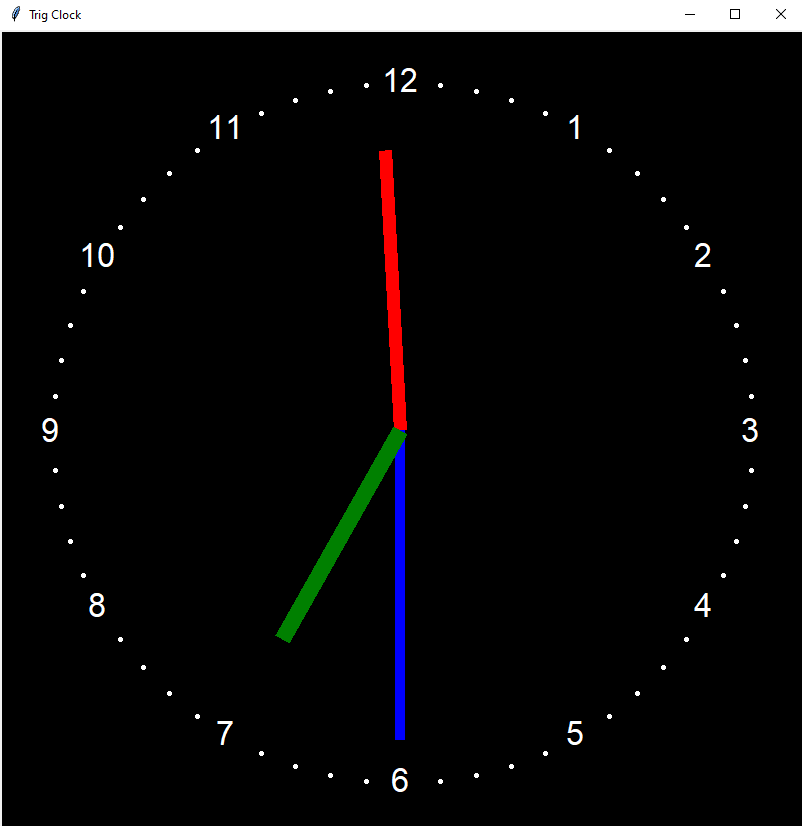
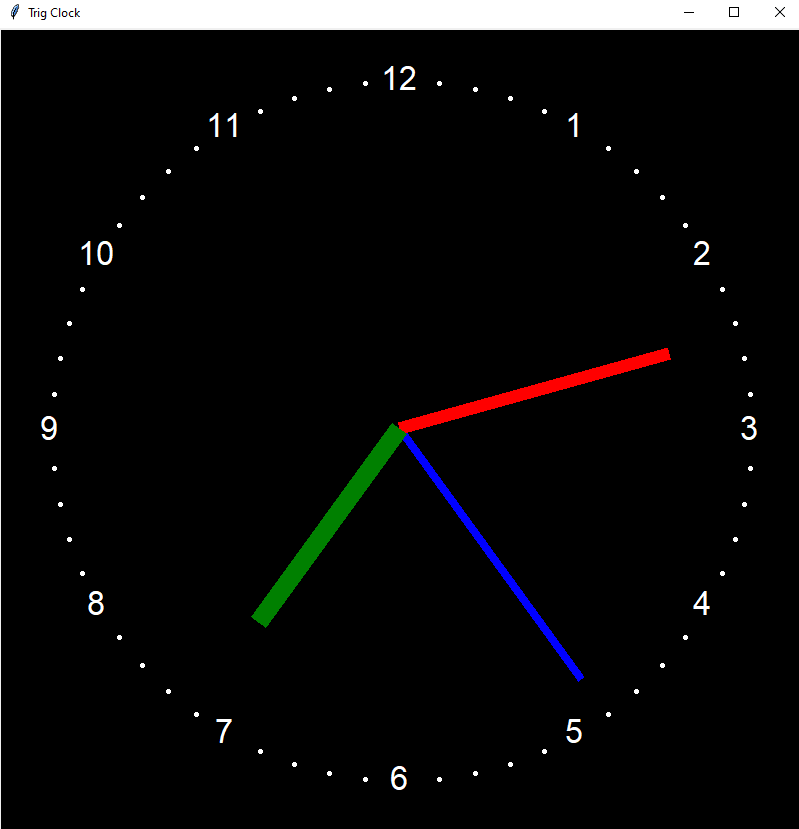
Updated trig-clock image and hand thickness (Width)

diff --git a/TrigClock.py b/TrigClock.py
@@ -69,7 +69,7 @@ while True:
 
     end_x = ORIGIN[0] + hand_length * math.cos(angle_in_radians)
     end_y = ORIGIN[1] + hand_length * math.sin(angle_in_radians)
-    secondhand = screen.create_line(ORIGIN, end_x, end_y, width=10, fill="blue")
+    secondhand = screen.create_line(ORIGIN, end_x, end_y, width=8, fill="blue")
 
     # Update minute
     angle_in_radians = minute_angle * math.pi / 180
@@ -83,7 +83,7 @@ while True:
     hand_length = clock_radius - 110
     end_x = ORIGIN[0] + hand_length * math.cos(angle_in_radians)
     end_y = ORIGIN[1] + hand_length * math.sin(angle_in_radians)
-    hourhand = screen.create_line(ORIGIN, end_x, end_y, width=16, fill="green")
+    hourhand = screen.create_line(ORIGIN, end_x, end_y, width=19, fill="green")
     screen.update()
     sleep(1)
     screen.delete(secondhand, minutehand, hourhand)
